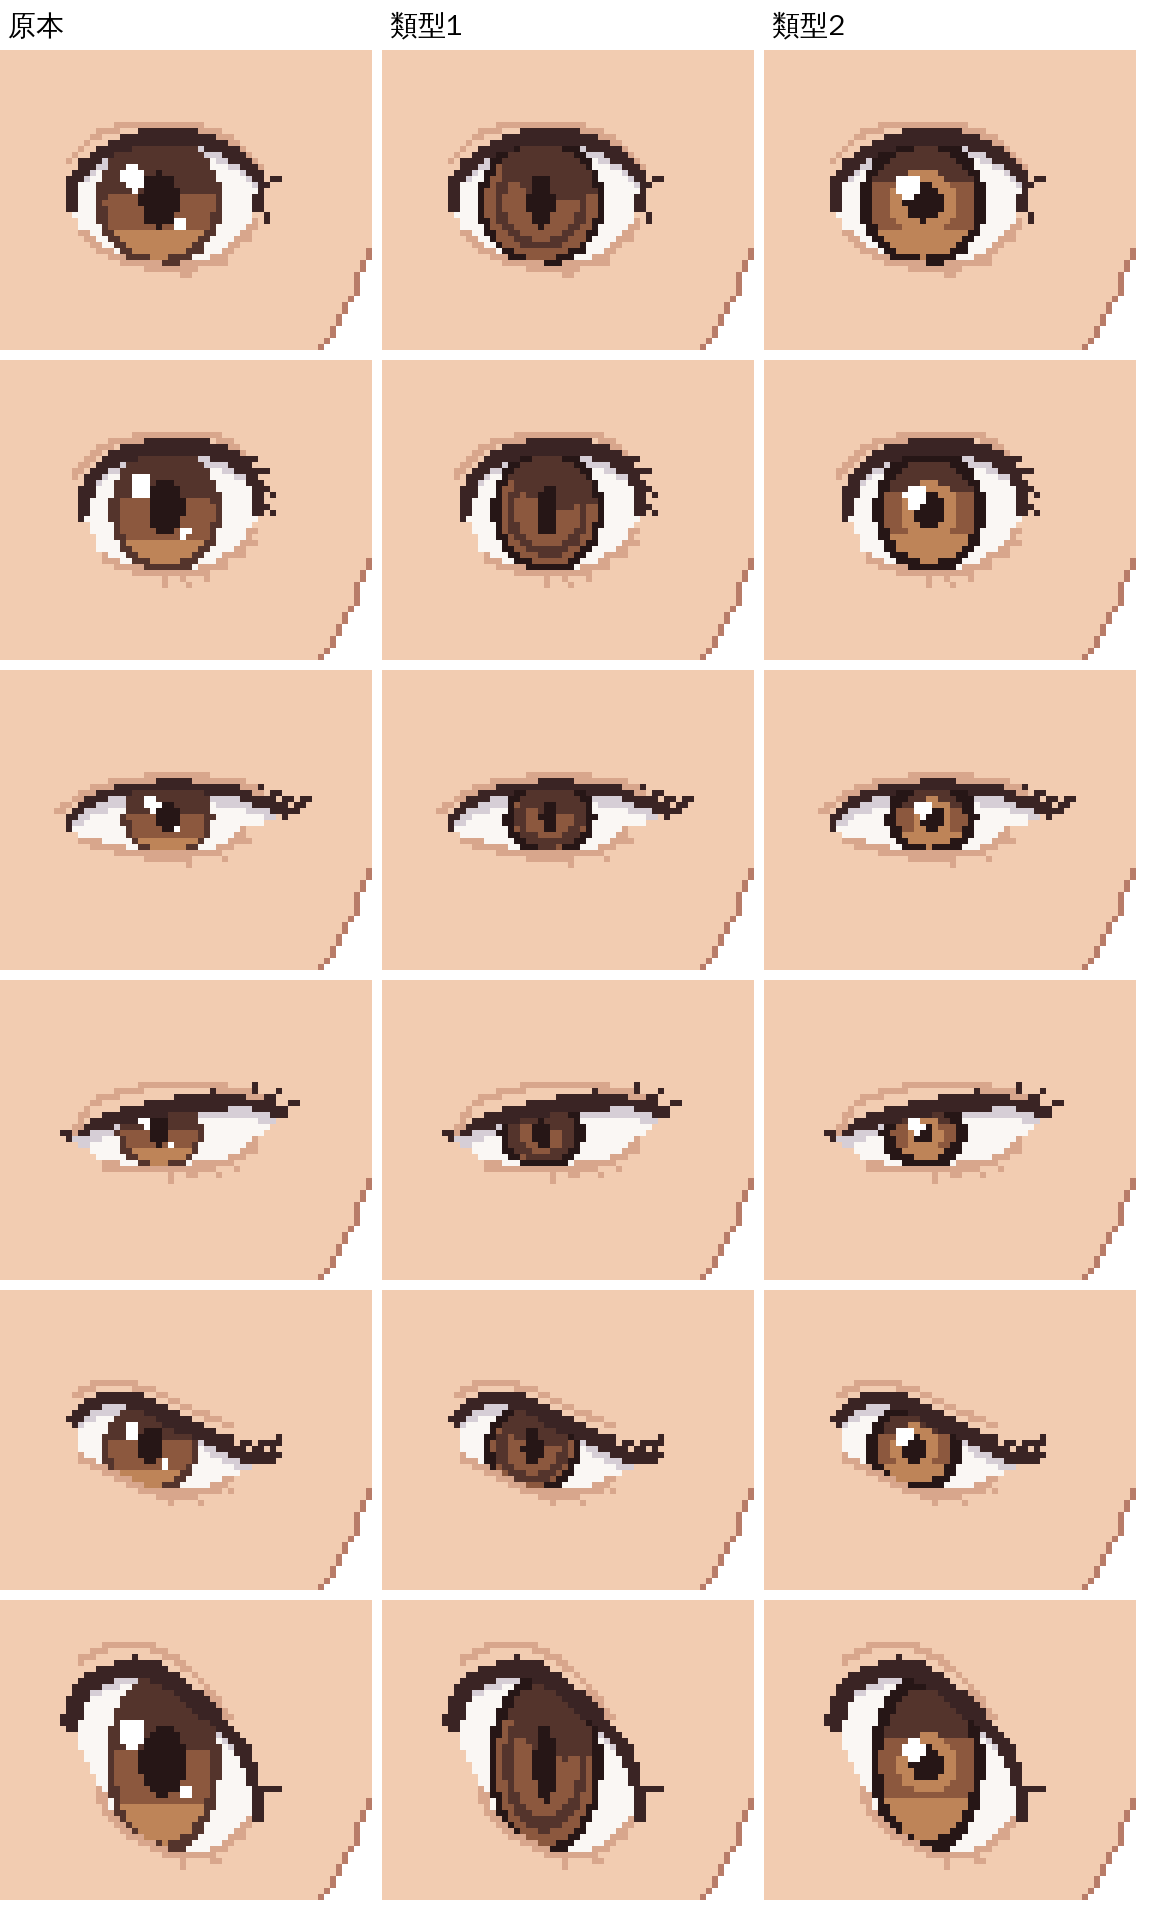
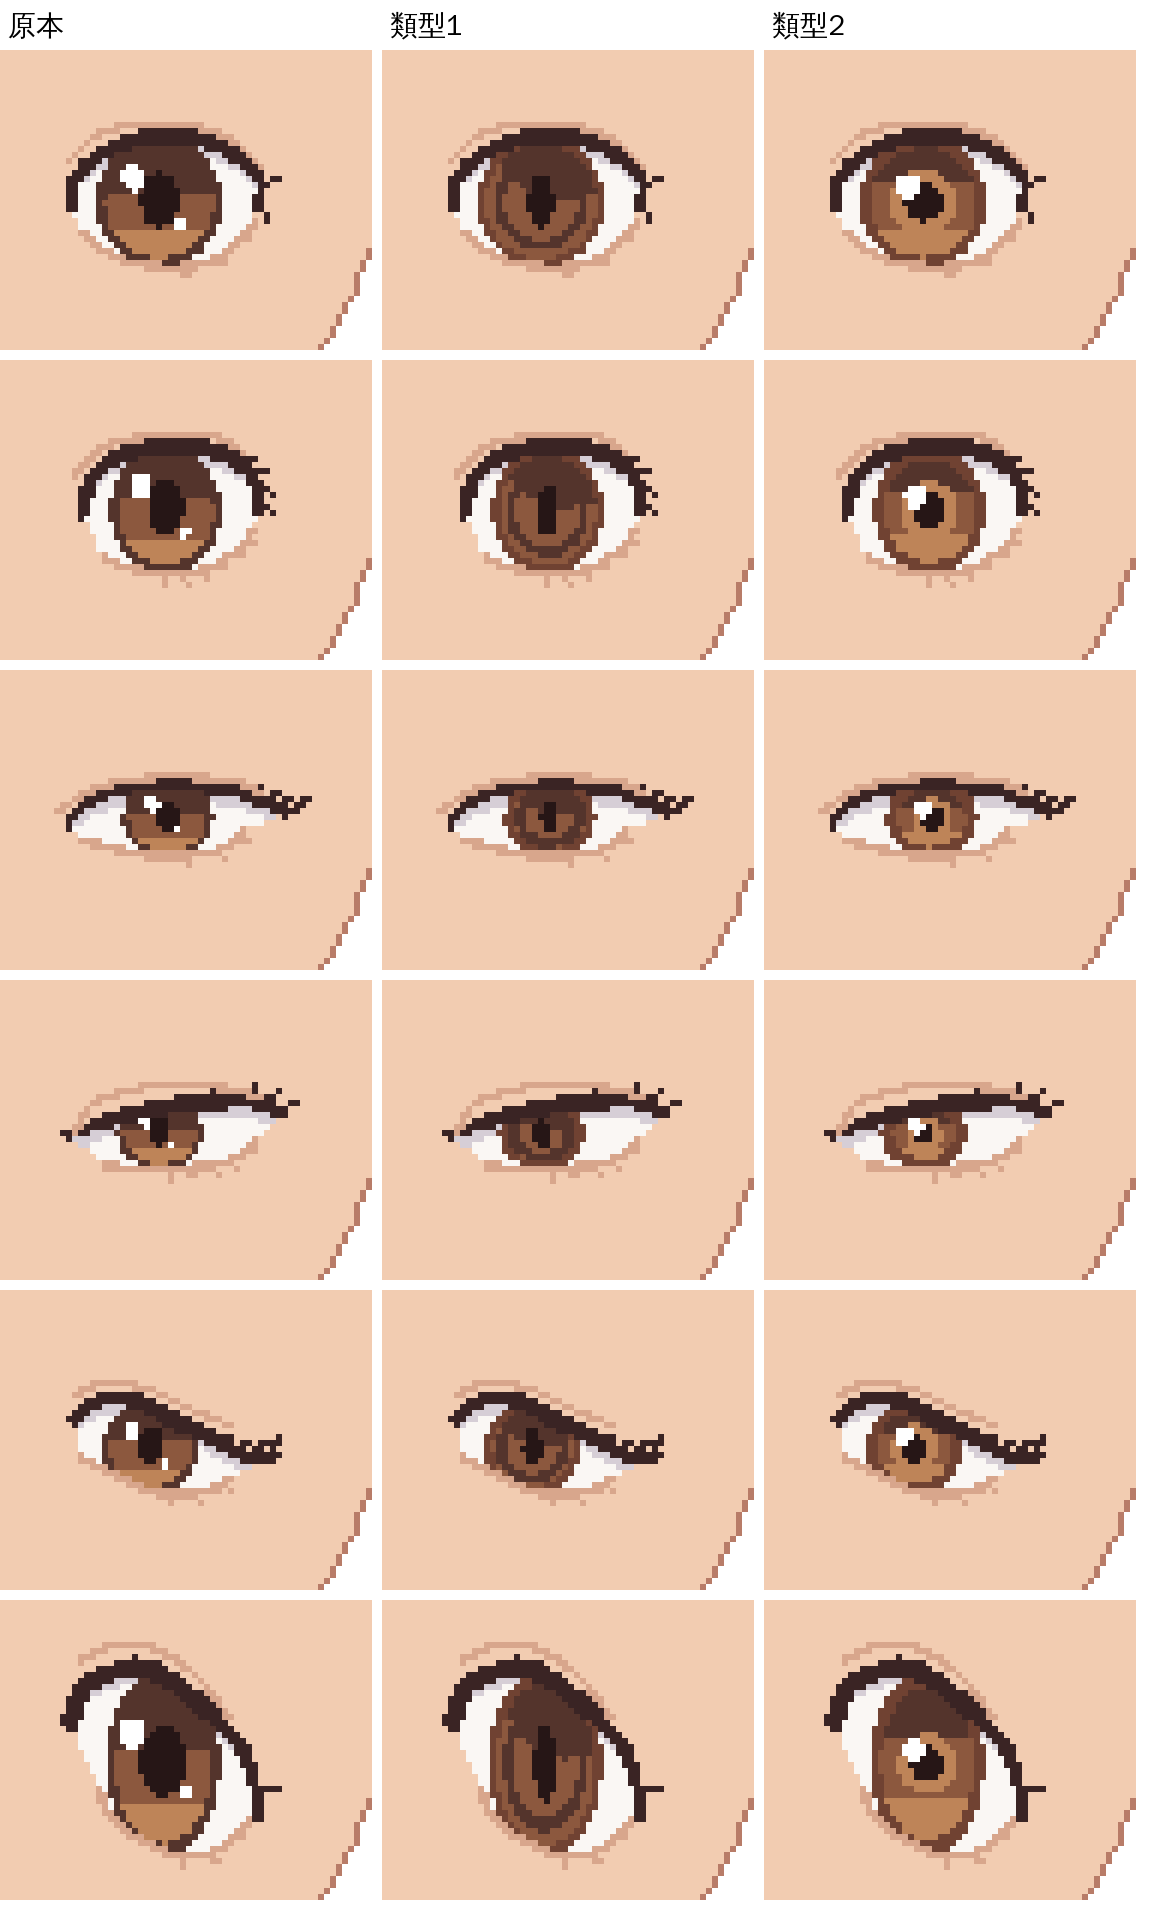
droom 臉模 v2：瞳孔類型 1、2 的黑眼珠外框改用黑眼珠的深色（新色 O），不用黑（使用者）；類型 1、2 都保留
Claude-Session: https://claude.ai/code/session_01FDQv7ddy7JMjePn6AqJ3VJ

diff --git a/web/droom/face_mold/v2/eyeframe.py b/web/droom/face_mold/v2/eyeframe.py
@@ -224,7 +224,7 @@ class Frame:
       # 瞳孔類型 1（使用者給的第一張）：平塗；黑眼珠外框深、上半一塊弧形陰影（上眼皮蓋下來）、裡面一圈細線、
       # 中間直立的小橢圓瞳孔（深色框、裡面淺、正中一條深色直線）；沒有亮點
       dx,dy=x-ic[0],y-ic[1]
-      if r>1-.9/min(IRX,IRY):return 'P'
+      if r>1-.9/min(IRX,IRY):return 'O'   # 外框用黑眼珠的深色、不用黑（使用者 2026-11-19）
       pr=math.hypot(dx/(IRX*.2),dy/(IRY*.42))
       if pr<1:
         if pr>1-.9/(IRX*.2) or abs(dx)<.45:return 'P'
@@ -238,7 +238,7 @@ class Frame:
       pr=math.hypot(dx,dy)/(.3*min(IRX,IRY))
       if math.hypot((hx+.42*min(IRX,IRY)*.6)/(.13*min(IRX,IRY)+.5),(dy+.42*min(IRX,IRY)*.6)/(.13*min(IRX,IRY)+.5))<1:return 'H'
       if pr<1:return 'P'
-      if r>1-1.2/min(IRX,IRY):return 'P'
+      if r>1-1.2/min(IRX,IRY):return 'O'
       if pr<1.75:return 'j'
       v=(y-ic[1]+IRY)/(2*IRY);return 'I' if v<.36 else 'i' if v<.7 else 'j'
     if r<1:

diff --git a/web/droom/face_mold/v2/frames_demo.py b/web/droom/face_mold/v2/frames_demo.py
@@ -6,7 +6,7 @@ from PIL import Image,ImageDraw,ImageFont
 os.environ.setdefault('GUIDE','0')
 from eyeframe import Frame,TYPES
 from outline import Y,S,N
-EPAL=dict(K=(58,36,36),k=(110,70,62),W=(250,247,244),w=(214,206,214),I=(84,52,44),i=(140,88,62),j=(190,132,88),P=(38,22,22),H=(255,255,255),L=(184,124,104),c=(216,166,140))
+EPAL=dict(K=(58,36,36),k=(110,70,62),W=(250,247,244),w=(214,206,214),I=(84,52,44),i=(140,88,62),j=(190,132,88),P=(38,22,22),O=(112,66,50),H=(255,255,255),L=(184,124,104),c=(216,166,140))
 D=sys.argv[1];ES=1.35
 base=np.array(Image.open(D+'/front.png').convert('RGB'))
 F=ImageFont.truetype('/usr/share/fonts/truetype/wqy/wqy-zenhei.ttc',30)

diff --git a/web/droom/face_mold/v2/features.py b/web/droom/face_mold/v2/features.py
@@ -14,7 +14,7 @@ HERE=os.path.dirname(os.path.abspath(__file__))
 LT=(229,185,158)
 CXF=128
 # ── 眼睛（照舊 eye.cjs，第一版使用者說先不用改）──
-EPAL=dict(K=(58,36,36),k=(110,70,62),W=(250,247,244),w=(214,206,214),I=(84,52,44),i=(140,88,62),j=(190,132,88),P=(38,22,22),H=(255,255,255),L=DK,c=SH)
+EPAL=dict(K=(58,36,36),k=(110,70,62),W=(250,247,244),w=(214,206,214),I=(84,52,44),i=(140,88,62),j=(190,132,88),P=(38,22,22),O=(112,66,50),H=(255,255,255),L=DK,c=SH)
 IN,OUT=-12,13
 tt=lambda x:(x-IN)/(OUT-IN)
 def yu(x):
